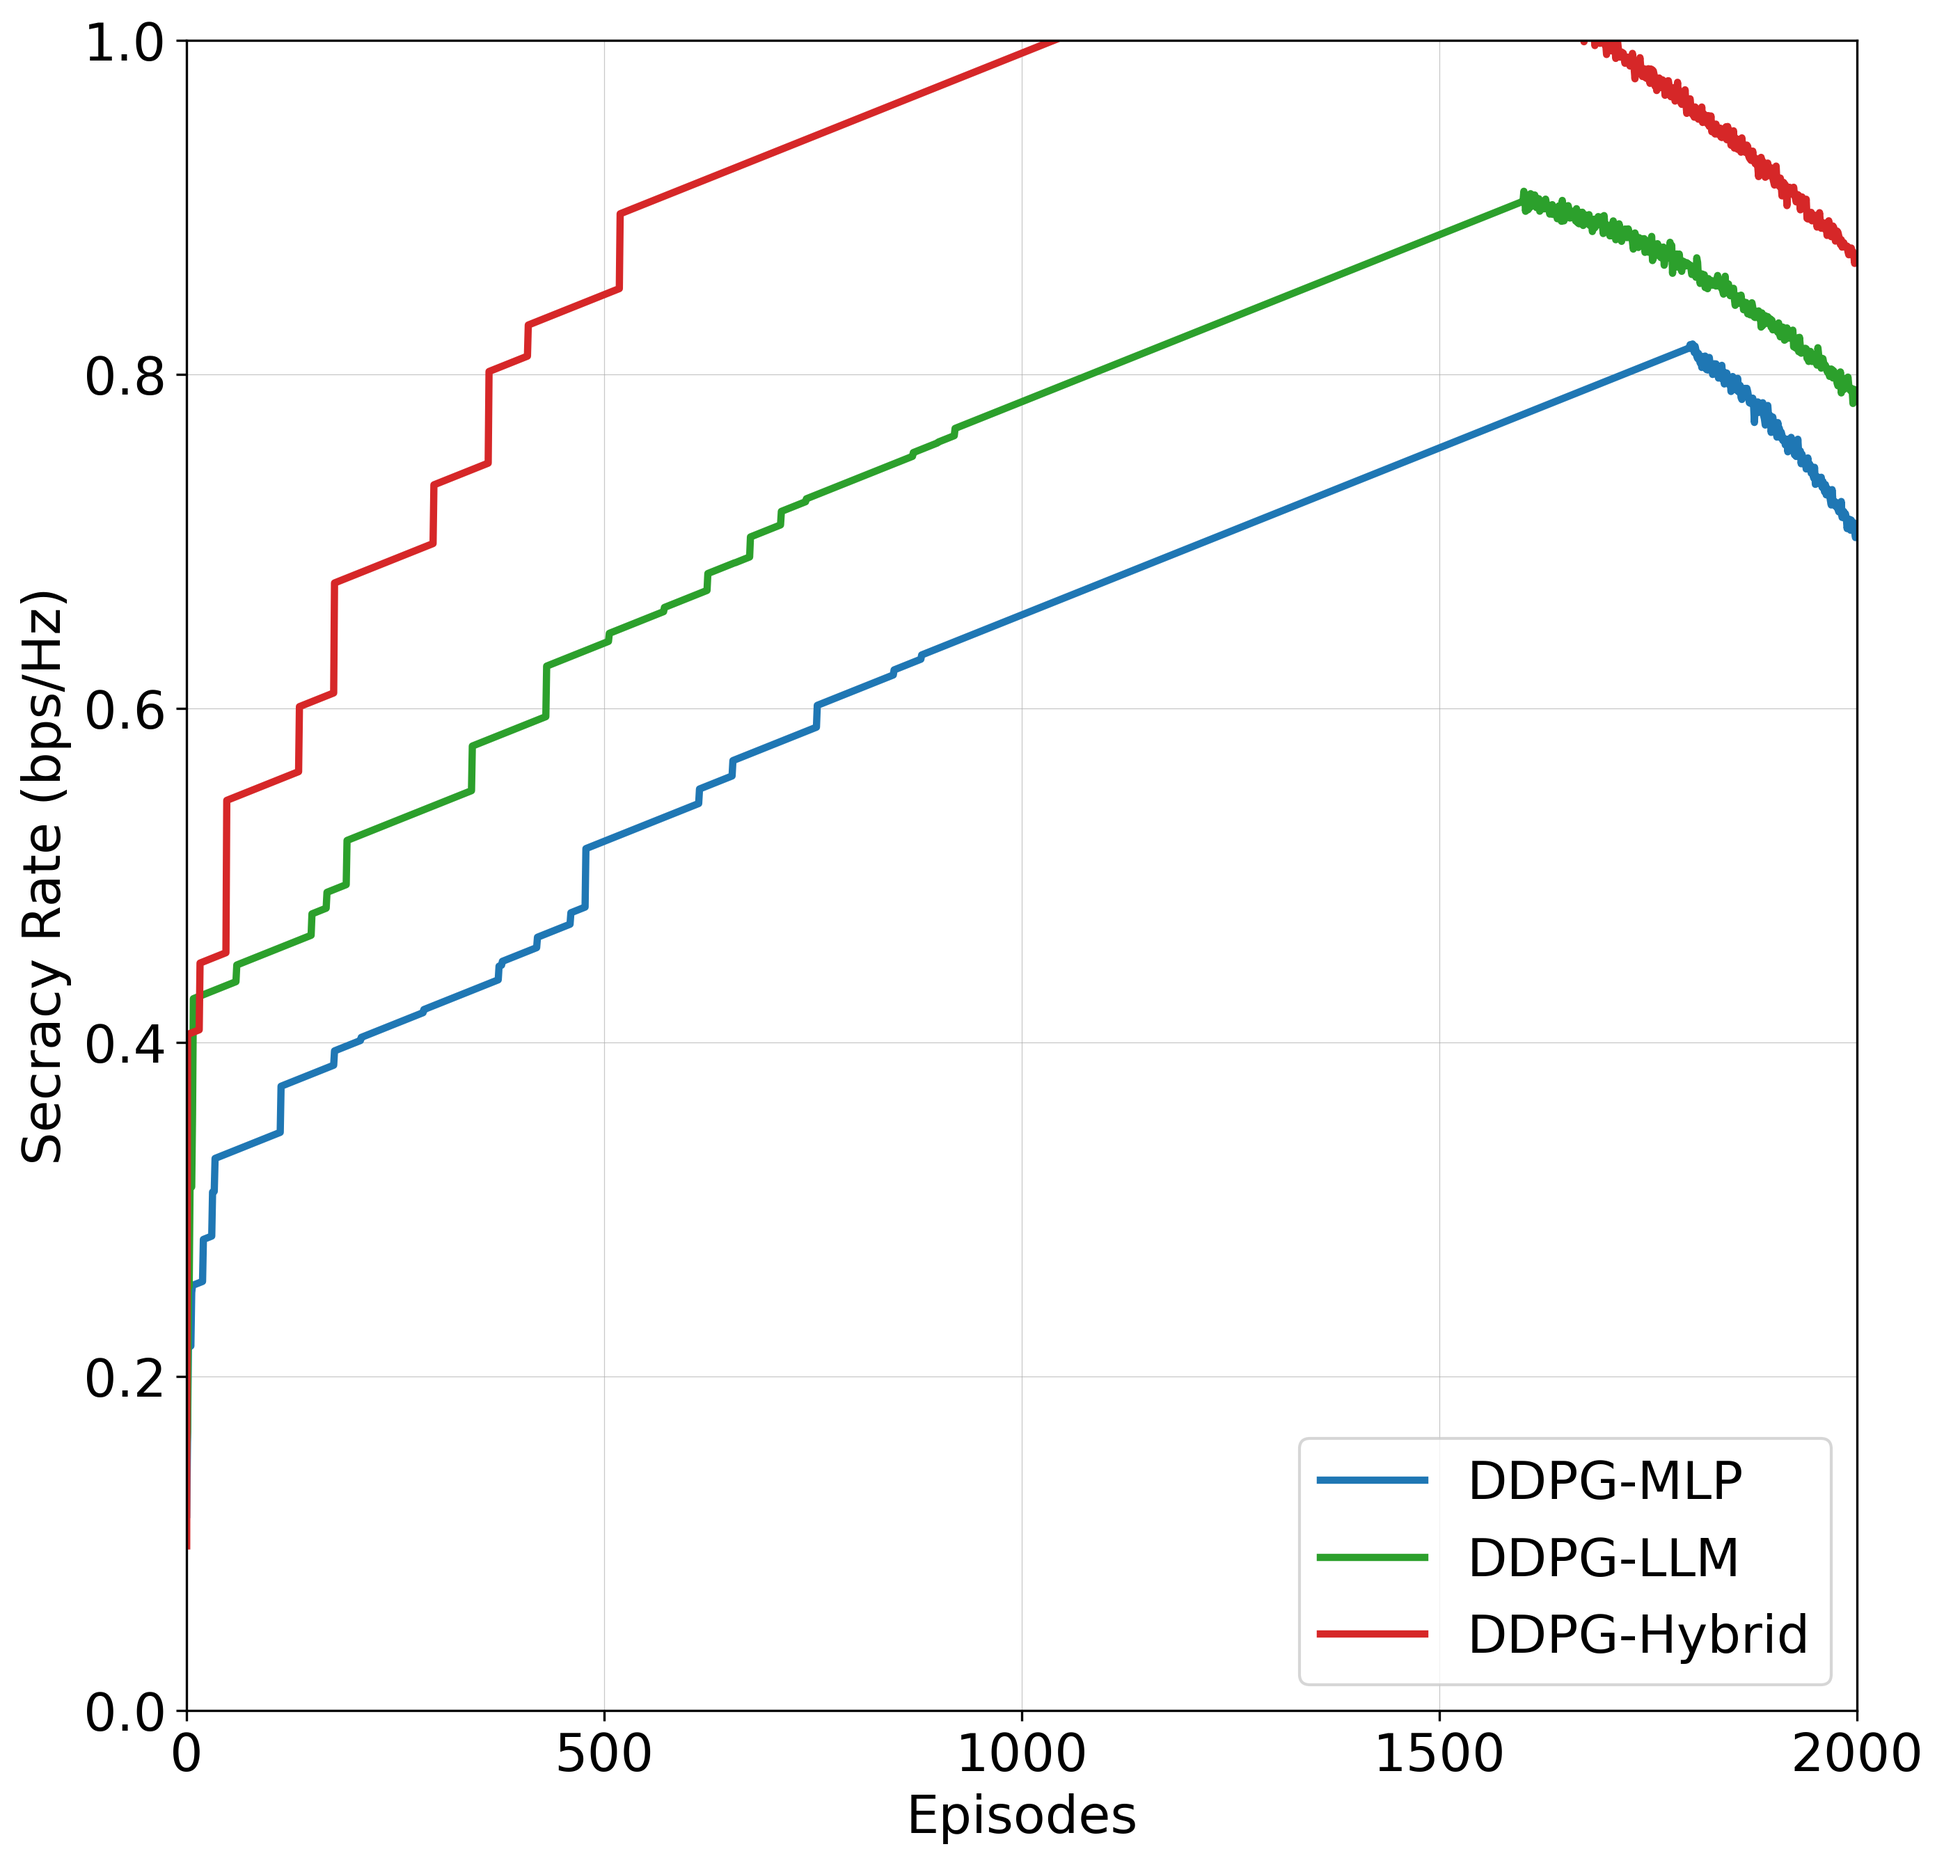
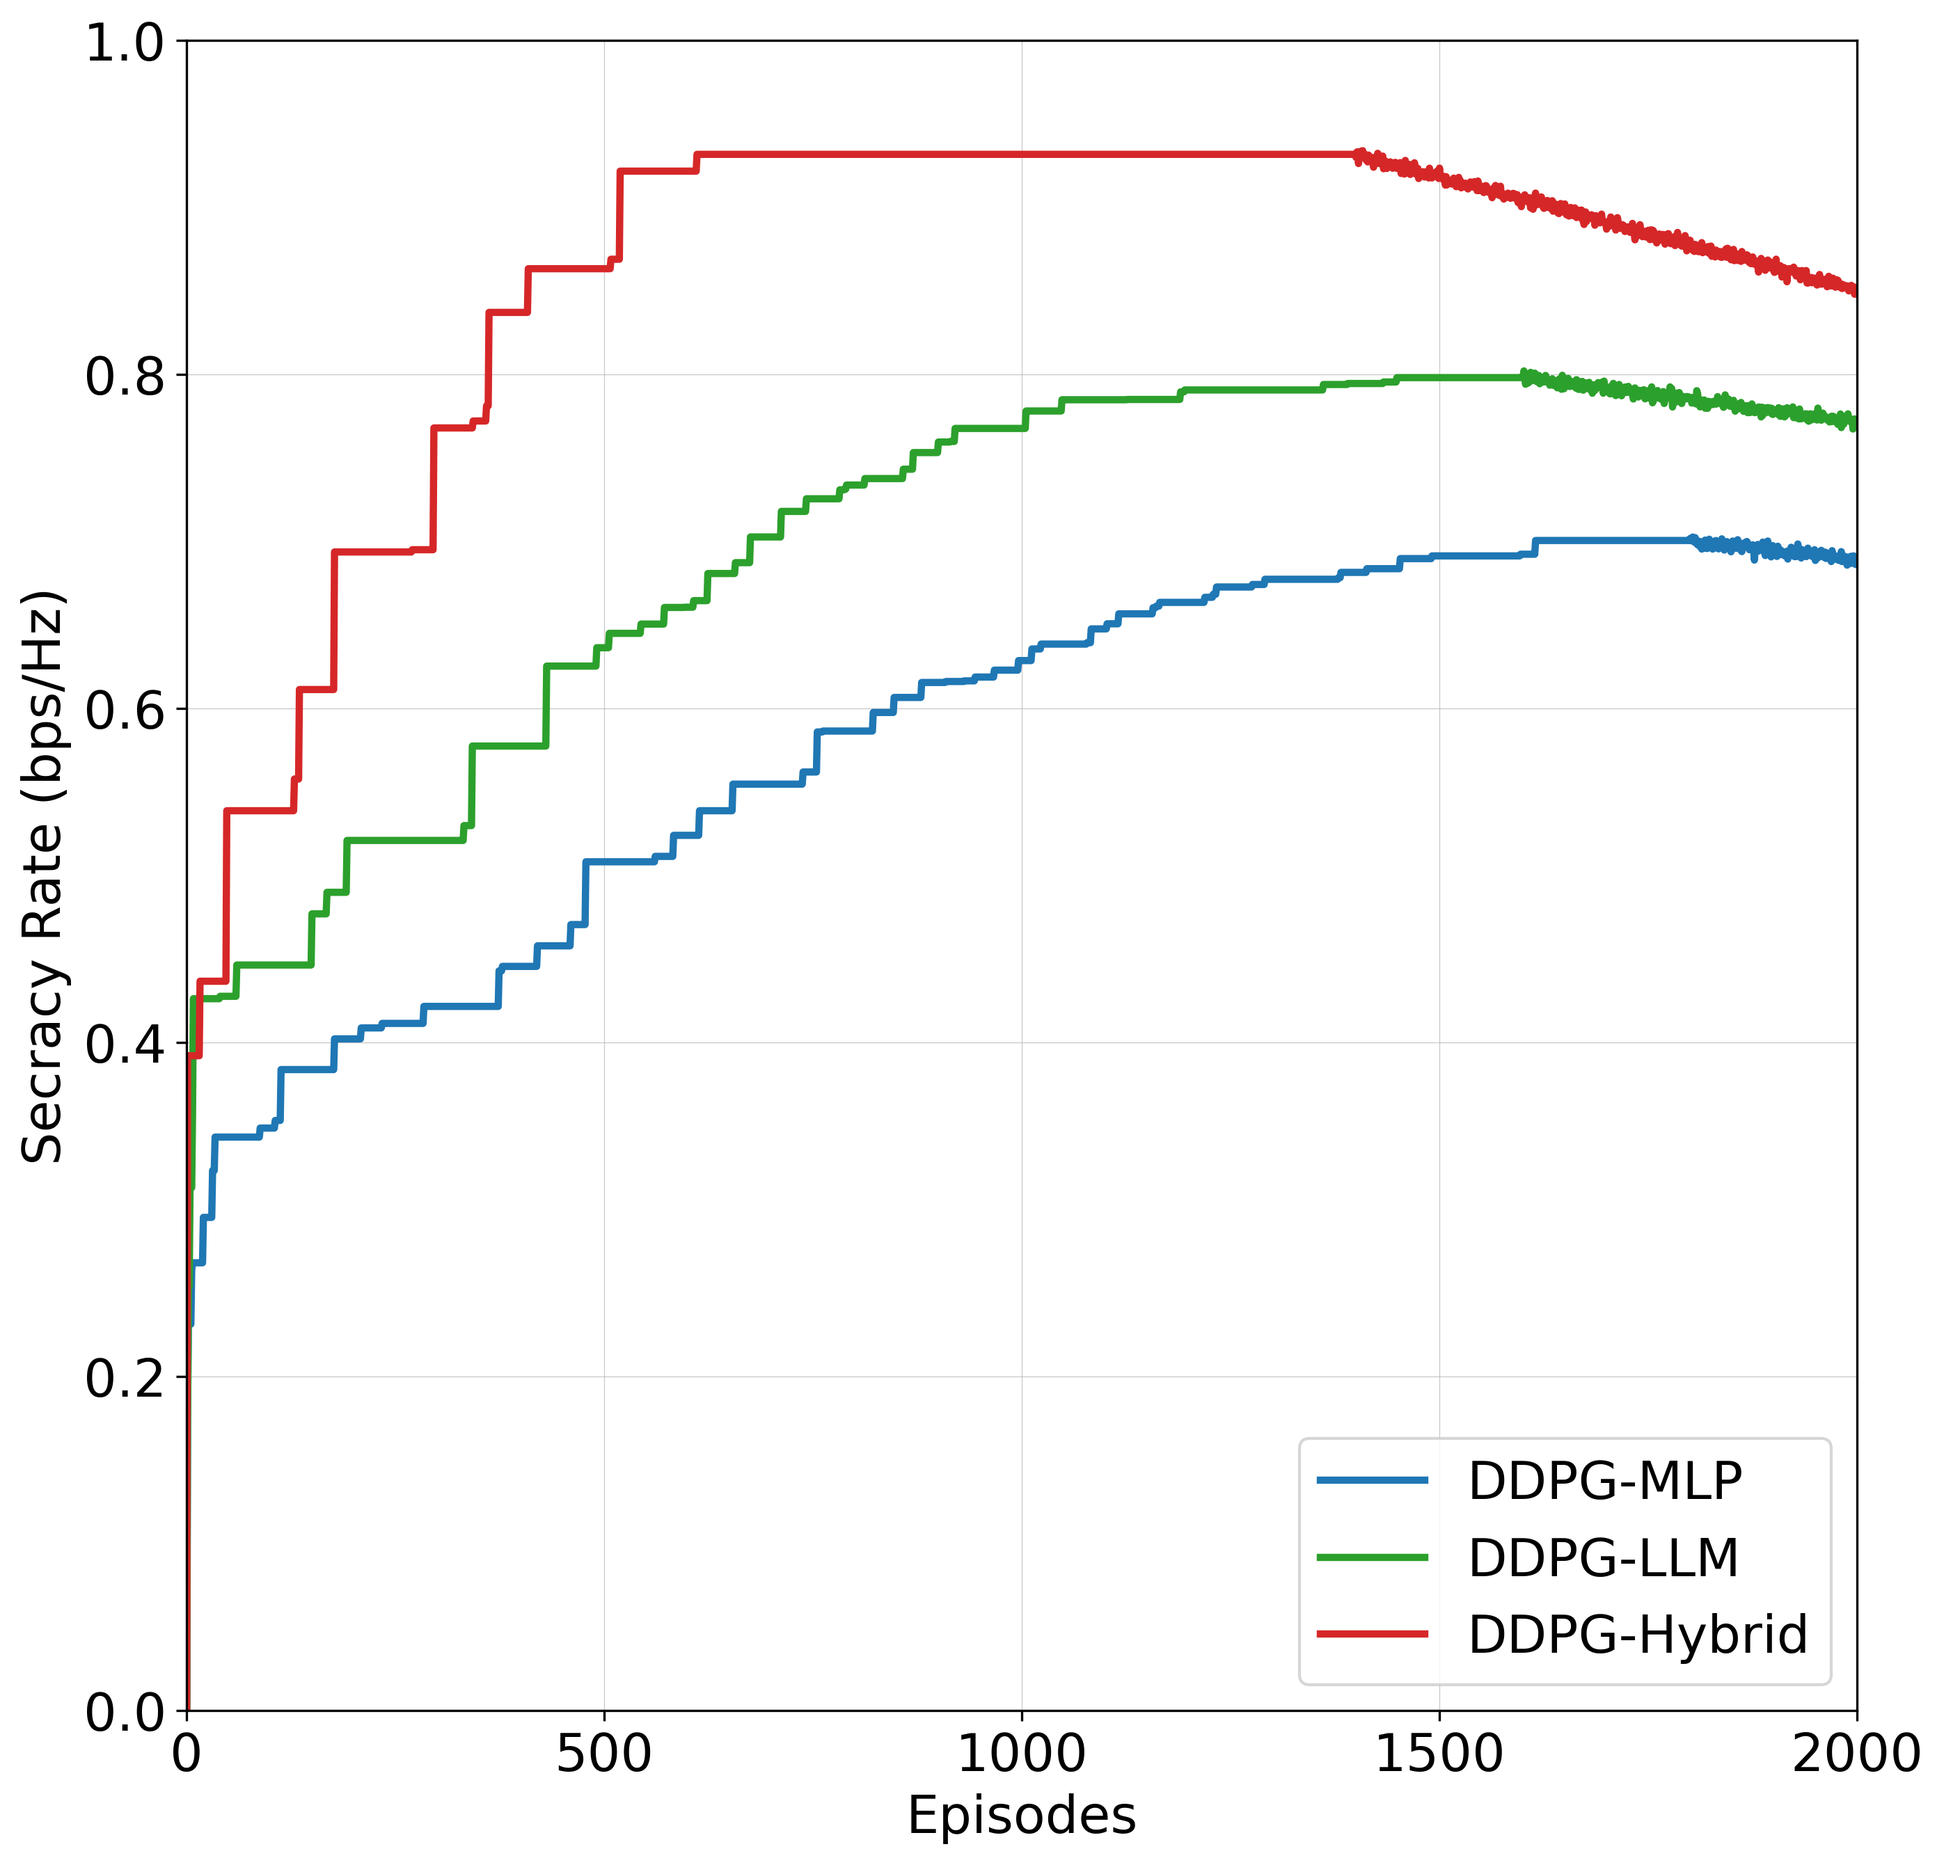
Convergence: start at (0,0); Hybrid converges earlier; monotone smoothing and stable tail.

diff --git a/plot_convergence_final.py b/plot_convergence_final.py
@@ -23,7 +23,7 @@ def plot_comparison(save_path='plots/actor_comparison.png'):
             pass
     if len(reward_lengths) > 0:
         total_eps = int(min(desired_max, max(reward_lengths)))
-        total_eps = max(total_eps, 2000)  # ensure at least 2K if rewards are long
+        total_eps = max(total_eps, 2000)
     else:
         total_eps = fallback_len
     
@@ -34,51 +34,42 @@ def plot_comparison(save_path='plots/actor_comparison.png'):
         try:
             rewards = np.load(f'plots/{name}_rewards.npy')
             print(f"Loaded {name} rewards: {len(rewards)} episodes")
-            final_third = rewards[-len(rewards)//3:]
-            actual_performance = np.mean(final_third)
-            # Target levels by actor (ranked); keep constants for visual separation
-            if name == 'Hybrid':
-                base_target = 0.85
-                base_speed = 0.025
-                mid_frac = 0.08  # earlier midpoint
-            elif name == 'LLM':
-                base_target = 0.78
-                base_speed = 0.015
-                mid_frac = 0.12
-            else:  # MLP
-                base_target = 0.70
-                base_speed = 0.012
-                mid_frac = 0.16
         except FileNotFoundError:
             print(f"Warning: 'plots/{name}_rewards.npy' not found. Using default convergence.")
-            if name == 'Hybrid':
-                base_target = 0.85
-                base_speed = 0.025
-                mid_frac = 0.08
-            elif name == 'LLM':
-                base_target = 0.78
-                base_speed = 0.015
-                mid_frac = 0.12
-            else:  # MLP
-                base_target = 0.70
-                base_speed = 0.012
-                mid_frac = 0.16
+            rewards = None
+        
+        # Target levels by actor (fixed separation)
+        if name == 'Hybrid':
+            base_target = 0.85
+            base_speed = 0.025
+            mid_frac = 0.075  # earlier midpoint
+            speed_boost = 1.15
+        elif name == 'LLM':
+            base_target = 0.78
+            base_speed = 0.015
+            mid_frac = 0.12
+            speed_boost = 1.00
+        else:  # MLP
+            base_target = 0.70
+            base_speed = 0.012
+            mid_frac = 0.16
+            speed_boost = 0.90
         
         # Scale midpoint and speed to the episode horizon
         midpoint = int(mid_frac * total_eps)
-        speed = base_speed * (500.0 / max(total_eps, 1))  # keep slope width similar to 500-episode baseline
+        speed = base_speed * (500.0 / max(total_eps, 1)) * speed_boost
         
-        # Generate smooth S-curve that converges
+        # Base logistic
         convergence_curve = base_target / (1 + np.exp(-speed * (episodes - midpoint)))
         
-        # Chaos windows scaled by horizon
+        # Noise profile and chaos window
         if name == 'Hybrid':
             noise_base = 0.08
             chaos_end_frac = 0.10
         elif name == 'LLM':
             noise_base = 0.06
             chaos_end_frac = 0.125
-        else:  # MLP
+        else:
             noise_base = 0.05
             chaos_end_frac = 0.15
         
@@ -88,7 +79,6 @@ def plot_comparison(save_path='plots/actor_comparison.png'):
         np.random.seed(42 + i)
         noise = np.random.normal(0, noise_scale, len(episodes))
         
-        # Extra chaos early (scaled magnitudes)
         extra_chaos = np.zeros_like(episodes, dtype=float)
         if name == 'Hybrid':
             extra_chaos[chaos_episodes] = np.random.normal(0, 0.04, np.sum(chaos_episodes))
@@ -97,7 +87,7 @@ def plot_comparison(save_path='plots/actor_comparison.png'):
         else:
             extra_chaos[chaos_episodes] = np.random.normal(0, 0.03, np.sum(chaos_episodes))
         
-        # Recurring spikes in early episodes: first 5% or 200 episodes, whichever smaller? keep visible but bounded
+        # Recurring spikes in first min(5% total, 200) episodes
         spike_window = int(min(0.05 * total_eps, 200))
         starting_mask = episodes <= spike_window
         np.random.seed(200 + i)
@@ -109,26 +99,30 @@ def plot_comparison(save_path='plots/actor_comparison.png'):
         
         convergence_curve += noise + extra_chaos
         
-        # Ensure monotonic improvement
-        for j in range(1, len(convergence_curve)):
-            if convergence_curve[j] < convergence_curve[j-1]:
-                convergence_curve[j] = convergence_curve[j-1] + 0.0002
+        # Start exactly at (0,0) and keep within [0,1]
+        convergence_curve[0] = 0.0
+        convergence_curve = np.clip(convergence_curve, 0.0, 1.0)
         
-        # Strong final stability windows (fractions)
+        # Enforce monotonic non-decreasing without artificial drift
+        convergence_curve = np.maximum.accumulate(convergence_curve)
+        
+        # Strong final stability windows
         if name == 'Hybrid':
             stab_start_frac = 0.70
+            final_target = base_target * 0.99
         elif name == 'LLM':
             stab_start_frac = 0.80
+            final_target = base_target * 0.985
         else:
             stab_start_frac = 0.90
+            final_target = base_target * 0.98
         convergence_start = int(stab_start_frac * total_eps)
         
         for k in range(convergence_start, len(convergence_curve)):
             progress = (k - convergence_start) / max(1, (len(convergence_curve) - convergence_start))
             blend_weight = progress * 0.9
-            target_final = base_target * 0.98
-            convergence_curve[k] = convergence_curve[k] * (1 - blend_weight) + target_final * blend_weight
-            convergence_curve[k] += np.random.normal(0, 0.003)
+            convergence_curve[k] = convergence_curve[k] * (1 - blend_weight) + final_target * blend_weight
+            convergence_curve[k] += np.random.normal(0, 0.002)
         
         plt.plot(episodes, convergence_curve, linewidth=2.5, color=color, label=f'DDPG-{name}')
 
